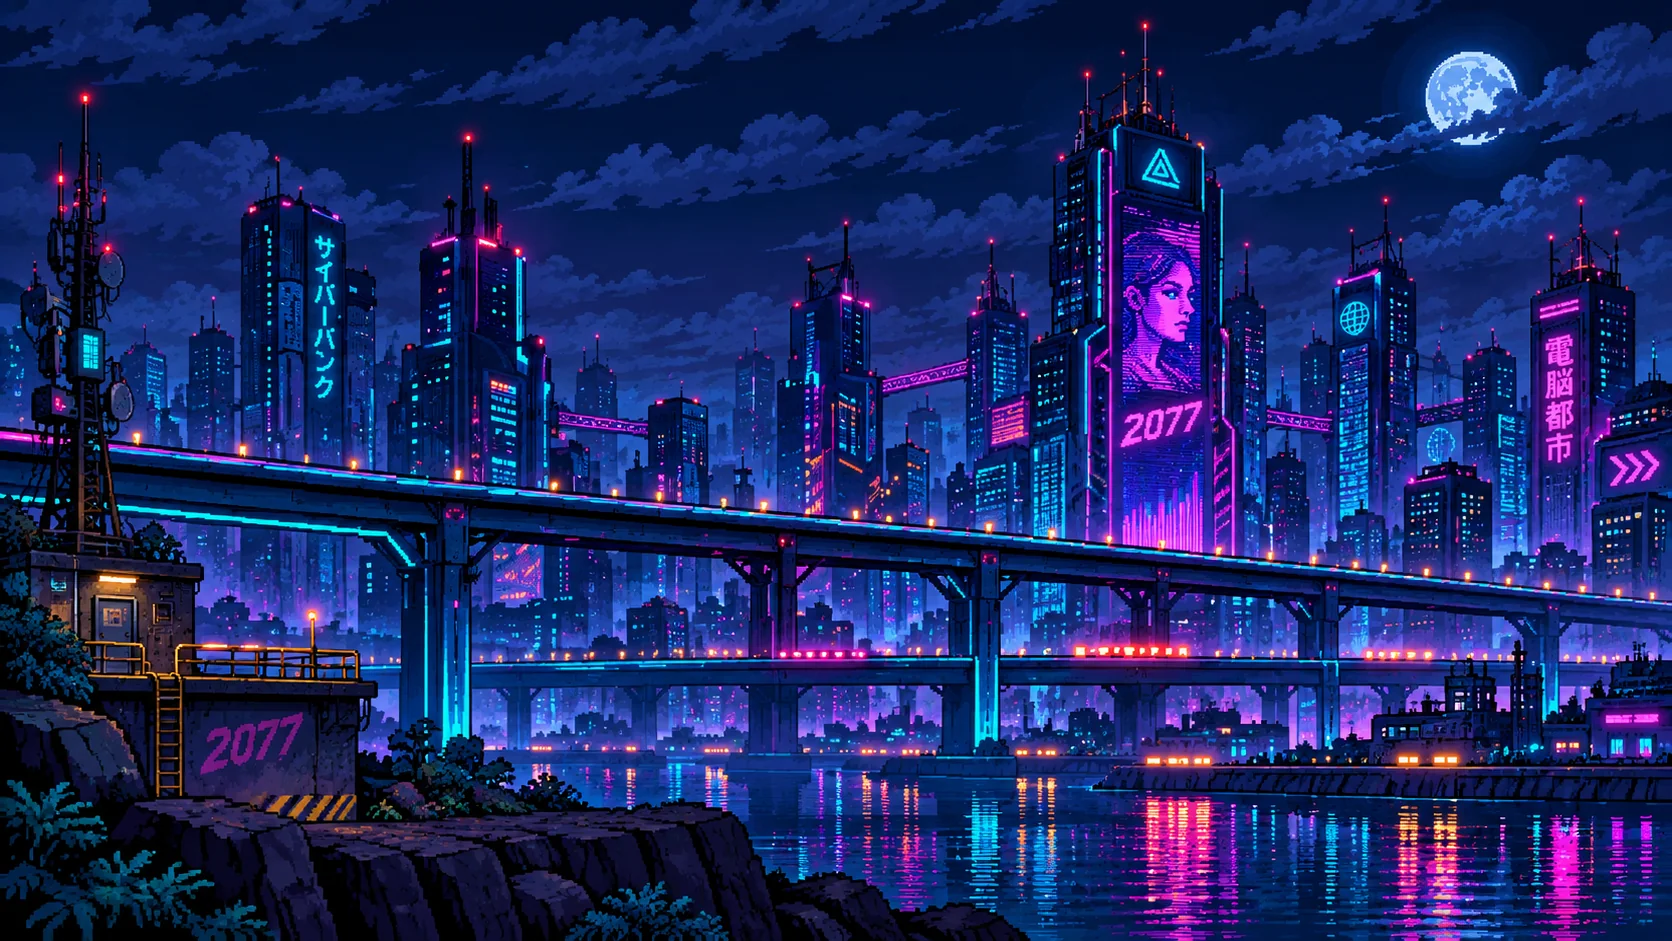
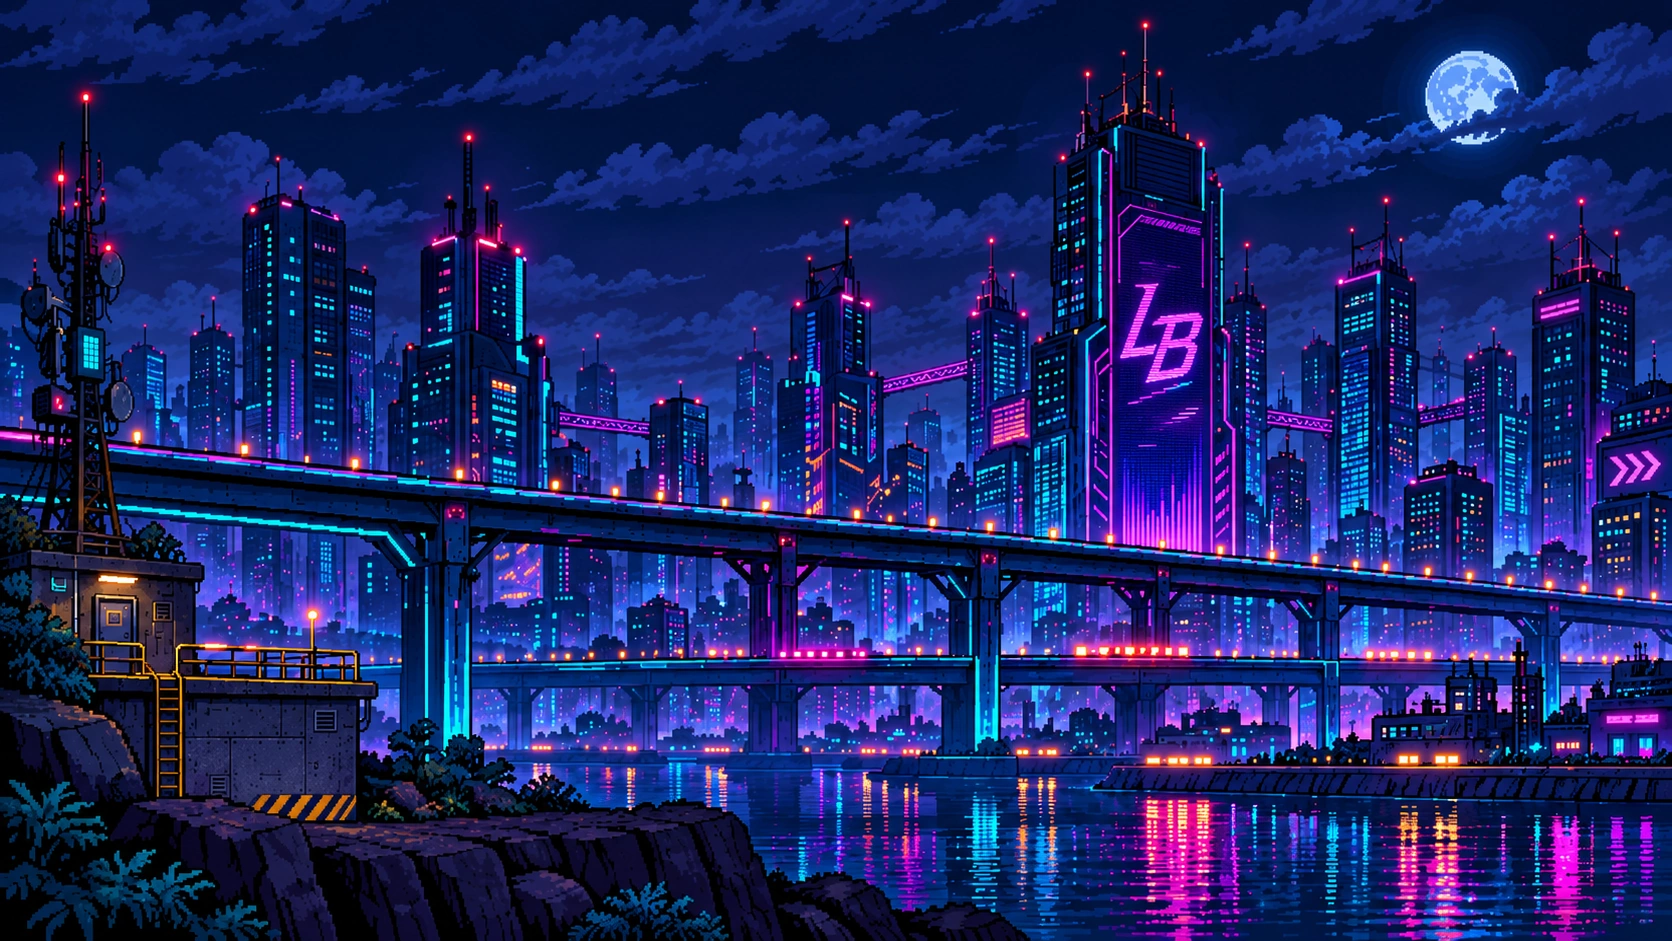
Replace Rules background with neon city LB billboard art

diff --git a/index.html b/index.html
@@ -157,7 +157,7 @@ footer{display:none}/* Controls are shown in the in-game HUD, avoiding bottom-co
 .minimapHDIcon svg{display:block;width:100%;height:100%;shape-rendering:geometricPrecision}
 </style>
 <link rel="stylesheet" href="./assets/landing/v1686/landing.css?v=16.93">
-<link rel="stylesheet" href="./assets/rules/v1691/rules.css?v=16.93">
+<link rel="stylesheet" href="./assets/rules/v1691/rules.css?v=16.94">
 </head>
 <body>
 <main>
@@ -231,7 +231,7 @@ footer{display:none}/* Controls are shown in the in-game HUD, avoiding bottom-co
  </div>
 </section>
 <section id="rules" aria-labelledby="rulesTitle" tabindex="-1" hidden>
- <img class="rules-scene-bg" src="./assets/rules/v1691/rules-background.webp?v=16.91"
+ <img class="rules-scene-bg" src="./assets/rules/v1691/rules-background.webp?v=16.94"
   alt="" aria-hidden="true" decoding="async">
  <div class="rules-scene-shade" aria-hidden="true"></div>
  <div class="rules-panel">

diff --git a/assets/rules/v1691/rules.css b/assets/rules/v1691/rules.css
@@ -18,7 +18,7 @@
   position:absolute;
   inset:-28px;
   z-index:-1;
-  background:url('./rules-background.webp?v=16.91') center/cover no-repeat;
+  background:url('./rules-background.webp?v=16.94') center/cover no-repeat;
   filter:blur(18px) brightness(.36);
   opacity:.65;
   pointer-events:none;
